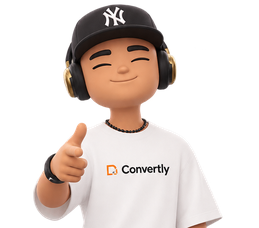
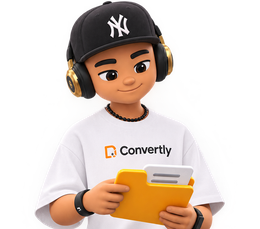
Swap the upload dropzone mascot for the folder-holding pose
Replaced the generic thumbs-up bust crop with a purpose-made pose:
the same mascot holding a yellow folder with a document peeking out,
eyes open and looking at it rather than the earlier relaxed
eyes-closed crop. It reads as actively presenting a file, which fits
the upload action, and it echoes the folder-tab shape just added to
the tools-hub cards, so the folder motif now ties the hub and the
uploader together.

Kept the full-resolution source pose (mascot-folder-source.png)
alongside the existing mascot-hero source, in case a different crop
or size is needed later.

Changed region(s): [[0.1236, 0.0, 0.8649, 1.0], [0.7722, 0.6754, 0.8031, 0.7061]]

diff --git a/src/ui/upload.ts b/src/ui/upload.ts
@@ -24,7 +24,7 @@ function dropzoneMascot(): HTMLElement {
   wrap.innerHTML = `
     <picture>
       <source srcset="/brand/mascot-bust.webp" type="image/webp" />
-      <img src="/brand/mascot-bust.png" alt="" width="130" height="114" />
+      <img src="/brand/mascot-bust.png" alt="" width="130" height="115" />
     </picture>`;
   return wrap;
 }
